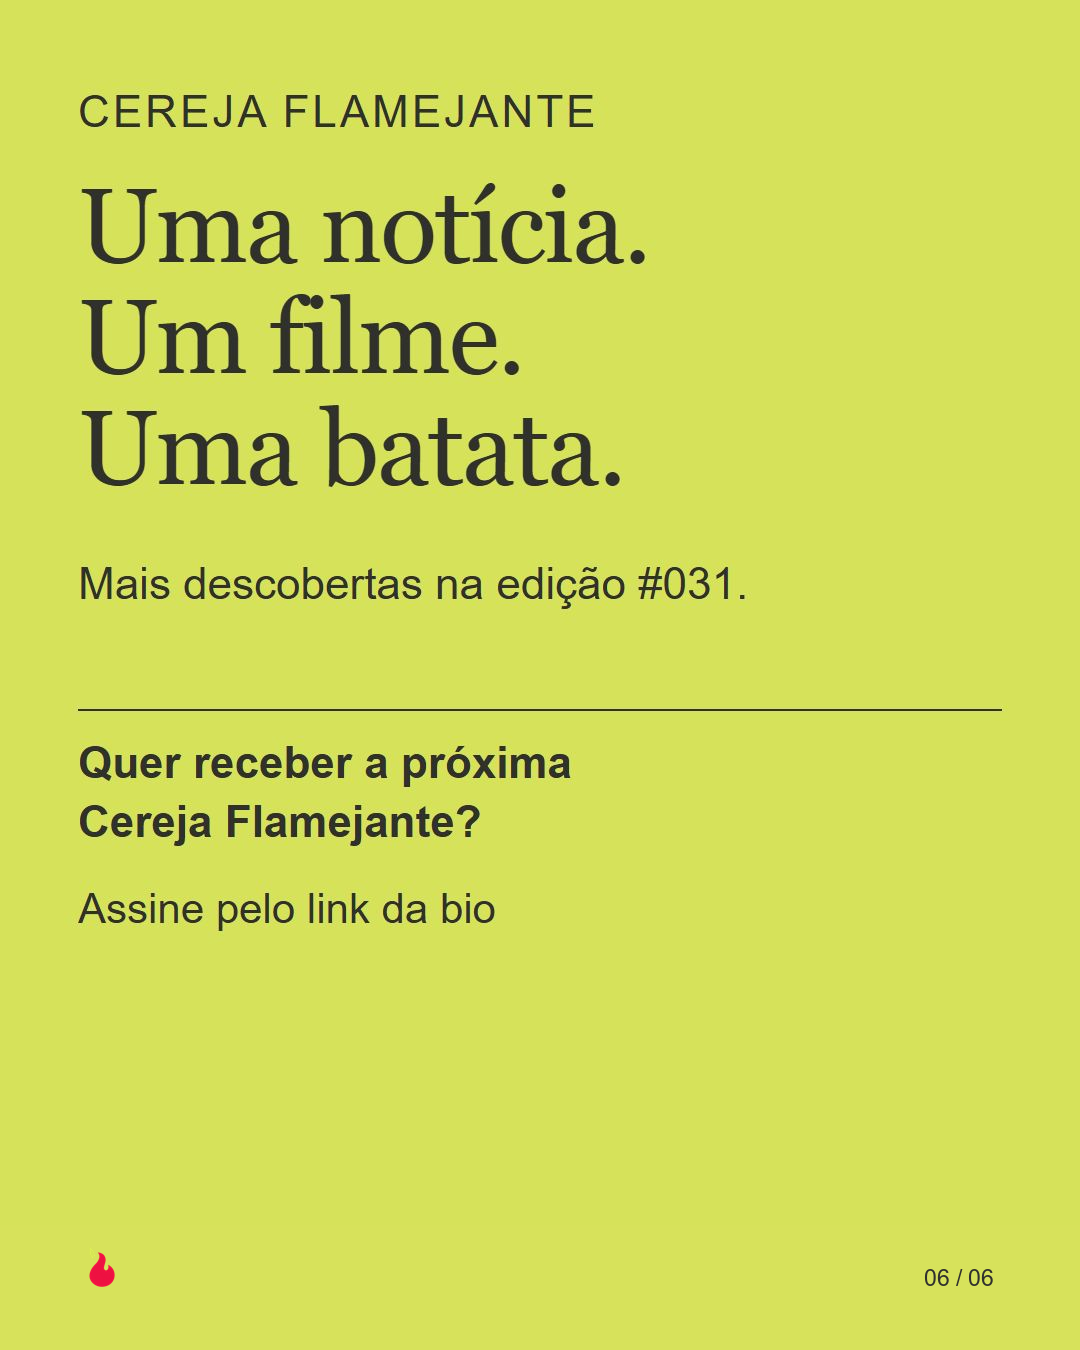
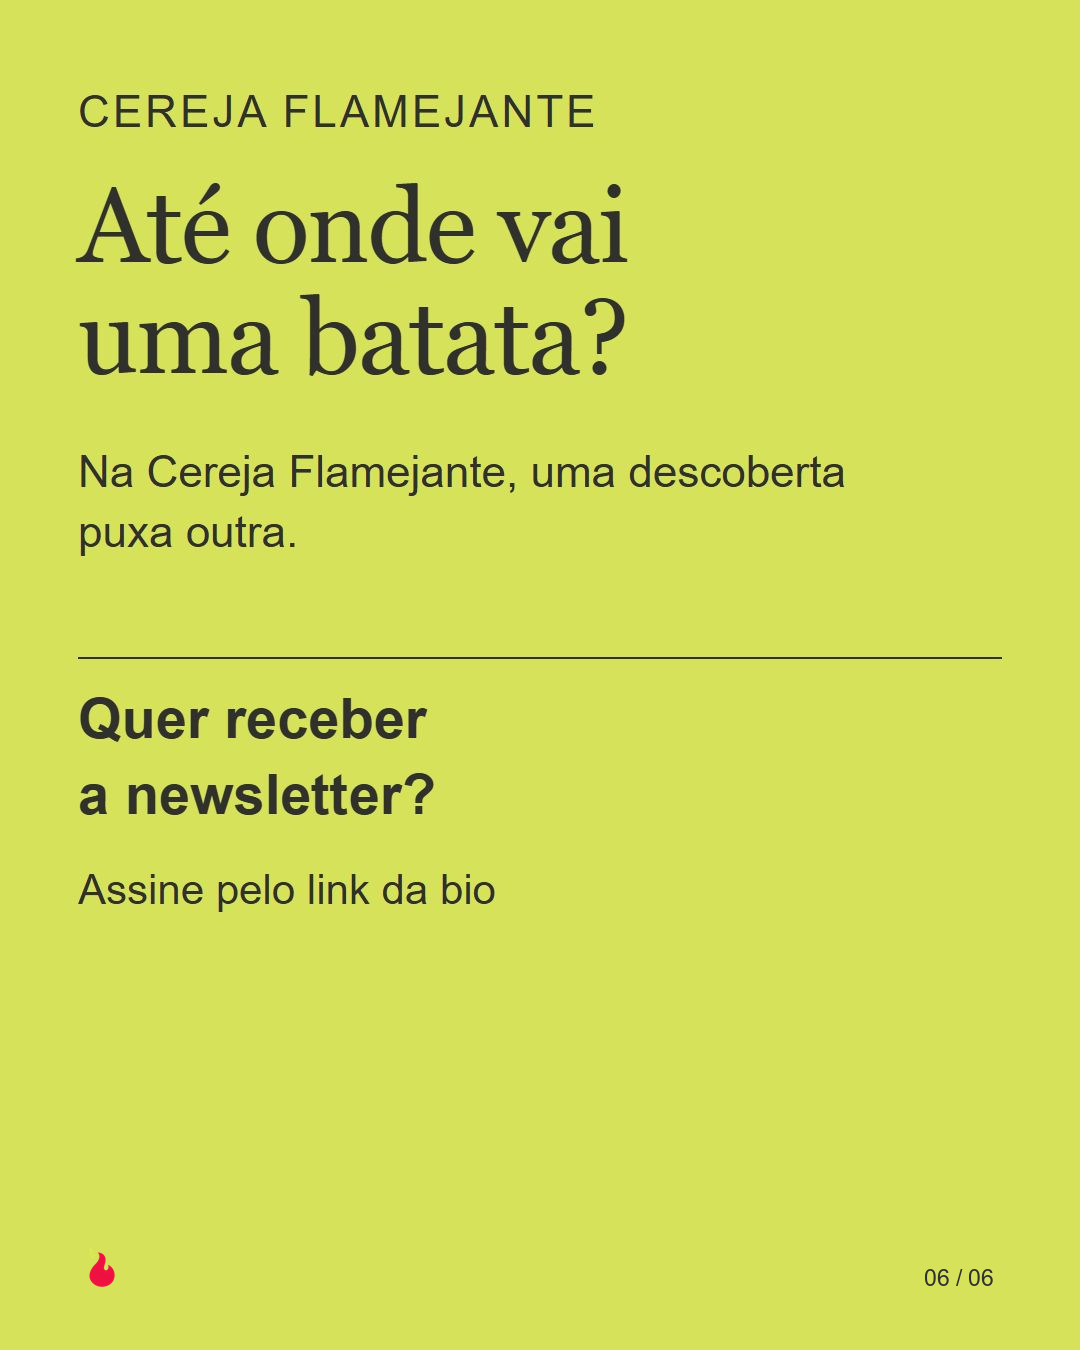
Apply expert review and include documented NASA image

Changed region(s): [[0.0611, 0.1244, 0.7944, 0.4667], [0.0611, 0.4978, 0.55, 0.6222], [0.0611, 0.6533, 0.4583, 0.6844]]

diff --git a/growth/cycles/031-mars/slide-05.html b/growth/cycles/031-mars/slide-05.html
@@ -1,1 +1,1 @@
-<!doctype html><html lang="pt-BR"><meta charset="utf-8"><title>Marte e batatas · 5</title><link rel="stylesheet" href="style.css"><main class="slide dark"><p class="eyebrow">Uma escala na Terra</p><h2>As batatas já<br>passaram pela NASA.</h2><p>Nos anos 1990, a NASA testou batatas em hidroponia.</p><svg class="diagram" viewBox="0 0 924 460" role="img" aria-label="Esquema de bandejas com batatas e circulação de solução nutritiva"><path d="M140 90H770M185 110V325H730V110" fill="none" stroke="#f4edde" stroke-width="7"/><path d="M186 278H730" stroke="#D7E25B" stroke-width="11"/><ellipse cx="355" cy="250" rx="70" ry="42" fill="#b78355"/><ellipse cx="550" cy="250" rx="65" ry="42" fill="#b78355"/><path d="M355 210V140m0 22q-80-60-30-74q52 9 30 74m195 48V140m0 22q65-65 28-76q-48 2-28 76" fill="#D7E25B" stroke="#D7E25B" stroke-width="6"/><path d="M730 325V382H185V325" fill="none" stroke="#D7E25B" stroke-width="5"/><path d="m400 370 22 12-22 12" stroke="#D7E25B" fill="none" stroke-width="5"/><text x="242" y="435" font-size="36" fill="#f4edde">solução nutritiva em circulação</text></svg><p class="small">Na Terra. A pesquisa até chamou a atenção da Frito-Lay.</p><p class="source">Fonte: NASA, arquivo de 2016.</p><footer class="foot"><img src="assets/flame.png" alt="Cereja Flamejante"><span>05 / 06</span></footer></main></html>
+<!doctype html><html lang="pt-BR"><meta charset="utf-8"><title>Marte e batatas · 5</title><link rel="stylesheet" href="style.css"><main class="slide dark"><p class="eyebrow">Uma escala na Terra</p><h2>As batatas já<br>passaram pela NASA.</h2><p>Nos anos 1990, a NASA testou batatas em hidroponia.</p><svg class="diagram" viewBox="0 0 924 460" role="img" aria-label="Esquema de bandejas com batatas e circulação de solução nutritiva"><path d="M140 90H770M185 110V325H730V110" fill="none" stroke="#f4edde" stroke-width="7"/><path d="M186 278H730" stroke="#D7E25B" stroke-width="11"/><ellipse cx="355" cy="250" rx="70" ry="42" fill="#b78355"/><ellipse cx="550" cy="250" rx="65" ry="42" fill="#b78355"/><path d="M355 210V140m0 22q-80-60-30-74q52 9 30 74m195 48V140m0 22q65-65 28-76q-48 2-28 76" fill="#D7E25B" stroke="#D7E25B" stroke-width="6"/><path d="M730 325V382H185V325" fill="none" stroke="#D7E25B" stroke-width="5"/><path d="m400 370 22 12-22 12" stroke="#D7E25B" fill="none" stroke-width="5"/></svg><p class="small">Na Terra. A pesquisa até chamou a atenção da Frito-Lay.</p><p class="source">Fonte: NASA, arquivo de 2016.</p><footer class="foot"><img src="assets/flame.png" alt="Cereja Flamejante"><span>05 / 06</span></footer></main></html>

diff --git a/growth/cycles/031-mars/slide-02.html b/growth/cycles/031-mars/slide-02.html
@@ -1,1 +1,1 @@
-<!doctype html><html lang="pt-BR"><meta charset="utf-8"><title>Marte e batatas · 2</title><link rel="stylesheet" href="style.css"><main class="slide "><p class="eyebrow">A investigação</p><h2>Essa água ficou<br>no passado.</h2><p>O Perseverance encontrou nas rochas de Jezero marcas de antigos contatos com água.</p><svg class="diagram" viewBox="0 0 924 460" role="img" aria-label="Diagrama conceitual de um laser analisando minerais numa rocha"><path d="M120 340 185 98 505 62 710 154 800 350 610 410 270 415Z" fill="#b16c48"/><path d="M185 98 395 180 270 415M505 62 395 180 610 410M395 180 710 154" fill="none" stroke="#edbe92" stroke-width="10"/><path d="M900 40 420 234" stroke="#BE1035" stroke-width="6"/><circle cx="420" cy="234" r="24" fill="#D7E25B"/><path d="M35 410H870" stroke="#30302d" stroke-width="2"/><text x="630" y="75" font-size="36" fill="#30302d">laser do SuperCam</text><text x="44" y="453" font-size="36" fill="#30302d">esquema conceitual • sem escala</text></svg><p class="small">O laser analisou mais de 185 pontos.</p><footer class="foot"><img src="assets/flame.png" alt="Cereja Flamejante"><span>02 / 06</span></footer></main></html>
+<!doctype html><html lang="pt-BR"><meta charset="utf-8"><title>Marte e batatas · 2</title><link rel="stylesheet" href="style.css"><main class="slide "><p class="eyebrow">A investigação</p><h2>Essa água ficou<br>no passado.</h2><p>O Perseverance encontrou nas rochas de Jezero marcas de antigos contatos com água.</p><img src="assets/nasa-jezero-margin.jpg" alt="Panorama real da Margin Unit em Jezero, Marte" style="width:924px;height:460px;object-fit:cover;object-position:center;display:block;margin:40px 0 22px"><p class="source">Jezero, Marte · NASA/JPL-Caltech/MSSS</p><footer class="foot"><img src="assets/flame.png" alt="Cereja Flamejante"><span>02 / 06</span></footer></main></html>

diff --git a/growth/cycles/031-mars/slide-06.html b/growth/cycles/031-mars/slide-06.html
@@ -1,1 +1,1 @@
-<!doctype html><html lang="pt-BR"><meta charset="utf-8"><title>Marte e batatas · 6</title><link rel="stylesheet" href="style.css"><main class="slide exit"><p class="eyebrow">Cereja Flamejante</p><h2>Uma notícia.<br>Um filme.<br>Uma batata.</h2><p style="max-width:790px;margin-top:50px">Mais descobertas na edição #031.</p><div class="line" style="margin-top:95px"><p><b>Quer receber a próxima<br>Cereja Flamejante?</b></p><p class="small">Assine pelo link da bio</p></div><footer class="foot"><img src="assets/flame.png" alt="Cereja Flamejante"><span>06 / 06</span></footer></main></html>
+<!doctype html><html lang="pt-BR"><meta charset="utf-8"><title>Marte e batatas · 6</title><link rel="stylesheet" href="style.css"><main class="slide exit"><p class="eyebrow">Cereja Flamejante</p><h2>Até onde vai<br>uma batata?</h2><p style="max-width:790px;margin-top:50px">Na Cereja Flamejante, uma descoberta puxa outra.</p><div class="line" style="margin-top:95px"><p style="font-size:56px"><b>Quer receber<br>a newsletter?</b></p><p class="small">Assine pelo link da bio</p></div><footer class="foot"><img src="assets/flame.png" alt="Cereja Flamejante"><span>06 / 06</span></footer></main></html>

diff --git a/growth/cycles/031-mars/packet.md b/growth/cycles/031-mars/packet.md
@@ -22,7 +22,7 @@ Já o cultivo de batatas foi testado na Terra, em ambiente controlado, com água
 
 Fontes: NASA, “NASA Discovery Reveals Complex Water Systems on Early Mars” (21/09/2026); NASA, “NASA Plant Researchers Explore Question of Deep-Space Food Crops” (17/02/2016). Links completos no registro de fontes desta peça.
 
-Para receber as próximas curiosidades: Quer receber a próxima Cereja Flamejante? Assine pelo link da bio. 🍒
+Quer receber a Cereja Flamejante na sua caixa de entrada? Assine pelo link da bio. 🍒
 
 #CerejaFlamejante #Marte #Ciência #Cinema
 
@@ -34,7 +34,7 @@ Nota para Kell: a reação da primeira linha vem da entrevista. Validar a formul
 2. https://www.nasa.gov/science-research/nasa-plant-researchers-explore-question-of-deep-space-food-crops/
    Arquivo histórico de 2016, consultado em 05/10/2026. Batatas cultivadas em hidroponia em ambiente controlado terrestre nos anos 1990. Nutrientes, iluminação, proteção e pressurização importam; percloratos exigem mitigação. Interesse da Frito-Lay no trabalho não prova cultivo em Marte.
 
-Texto factual das páginas 2–3 é uma paráfrase própria, sem citação direta. Páginas 4–5 ampliam a pauta com a fonte histórica. Sem fotografias, frames ou áudio do filme e sem ativos fotográficos da NASA.
+Texto factual das páginas 2–3 é uma paráfrase própria, sem citação direta. Páginas 4–5 ampliam a pauta com a fonte histórica. Sem fotografias, frames ou áudio do filme ; fotografia NASA adicionada na revisão posterior.
 
 ## Ativos e direitos
 - assets/mars-potato.png: colagem conceitual original criada neste projeto com a ferramenta integrada de geração de imagem; não representa observação astronômica. Sem referência a personagem ou cartaz. Prompt registrado em image-prompt.txt. Uso proposto: esta peça editorial orgânica; aprovação humana pendente.
@@ -49,7 +49,7 @@ https://cerejaflamejante.substack.com/subscribe?utm_source=instagram&utm_medium=
 Antes de publicar, confirmar a URL da bio e testar a chegada à assinatura. UTMs identificam origem quando preservadas pelo percurso; não garantem atribuição de inscrições pelo Substack. Nenhuma mudança na bio executada.
 
 ## Avaliação
-Revisão feita pelo Codex, não por agentes independentes.
+Revisão inicial pelo Codex. Revisão especializada posterior de leitura, direção visual e conversão registrada em review.md. Aprovação humana continua pendente.
 - Evidência: PASS técnico para os enunciados ligados às duas fontes; grau de incerteza preservado.
 - Canal: PASS para autonomia, descoberta e sequência visual; convite somente ao final.
 - Distintividade: PASS provisório; parte da pergunta real de Kell e chega ao detalhe concreto da hidroponia/Frito-Lay. Aprovação de voz da legenda pendente.
@@ -78,3 +78,5 @@ Regra de CTA aprovada por Kell: nas peças e legendas, usar convite empático e 
 Novo ativo: assets/mars-greenhouse-concept.png, cena conceitual original inspirada na premissa de cultivo para sobrevivência. Ferramenta integrada de imagem. Não é frame nem representação de Matt Damon, nem diagrama agronômico: plantas e tubérculos compõem uma cena fictícia. Direitos de imagens do filme continuam pendentes; nenhuma delas foi reproduzida.
 
 Revisão: textos das peças reduzidos; detalhes científicos preservados na legenda. CTA empático mantido.
+
+NASA: panorama Margin Unit, capturado de 08–16/10/2023, publicado na notícia em 21/09/2026. Crédito NASA/JPL-Caltech/MSSS. Origem: https://www.nasa.gov/solar-system/planets/mars/nasa-discovery-reveals-complex-water-systems-on-early-mars/ . Arquivo: assets/nasa-jezero-margin.jpg. Política: https://www.nasa.gov/nasa-brand-center/images-and-media/ . Uso informativo orgânico nesta peça, sem endosso ou logo; recorte central de apresentação, sem filtro de cor; não presumir extensão a anúncio pago. Consulta 05/10/2026.

diff --git a/growth/cycles/031-mars/review.md b/growth/cycles/031-mars/review.md
@@ -1,0 +1,7 @@
+# Revisão especializada
+
+Leitura: revisar PNG/HTML divergentes no slide 2; retirar rótulos miúdos dos diagramas; manter corpo de 44 px; conferir a 390 px.
+Conversão: explicitar newsletter no convite, remover CTA duplicado da legenda, não desenhar botão não clicável; confirmar destino de assinatura da bio antes de publicar.
+Direção visual: imagem NASA dá evidência concreta e melhora o ritmo do slide 2; manter cena conceitual identificada no filme.
+
+Aplicado: panorama NASA no slide 2; método de 185 alvos levado às fontes; rótulo miúdo retirado do esquema de hidroponia; convite final ampliado para 56 px e explicitando newsletter; legenda corrigida. Status: revisão humana pendente, não publicado. Não houve avaliação quantitativa de conversão; é hipótese para teste.
